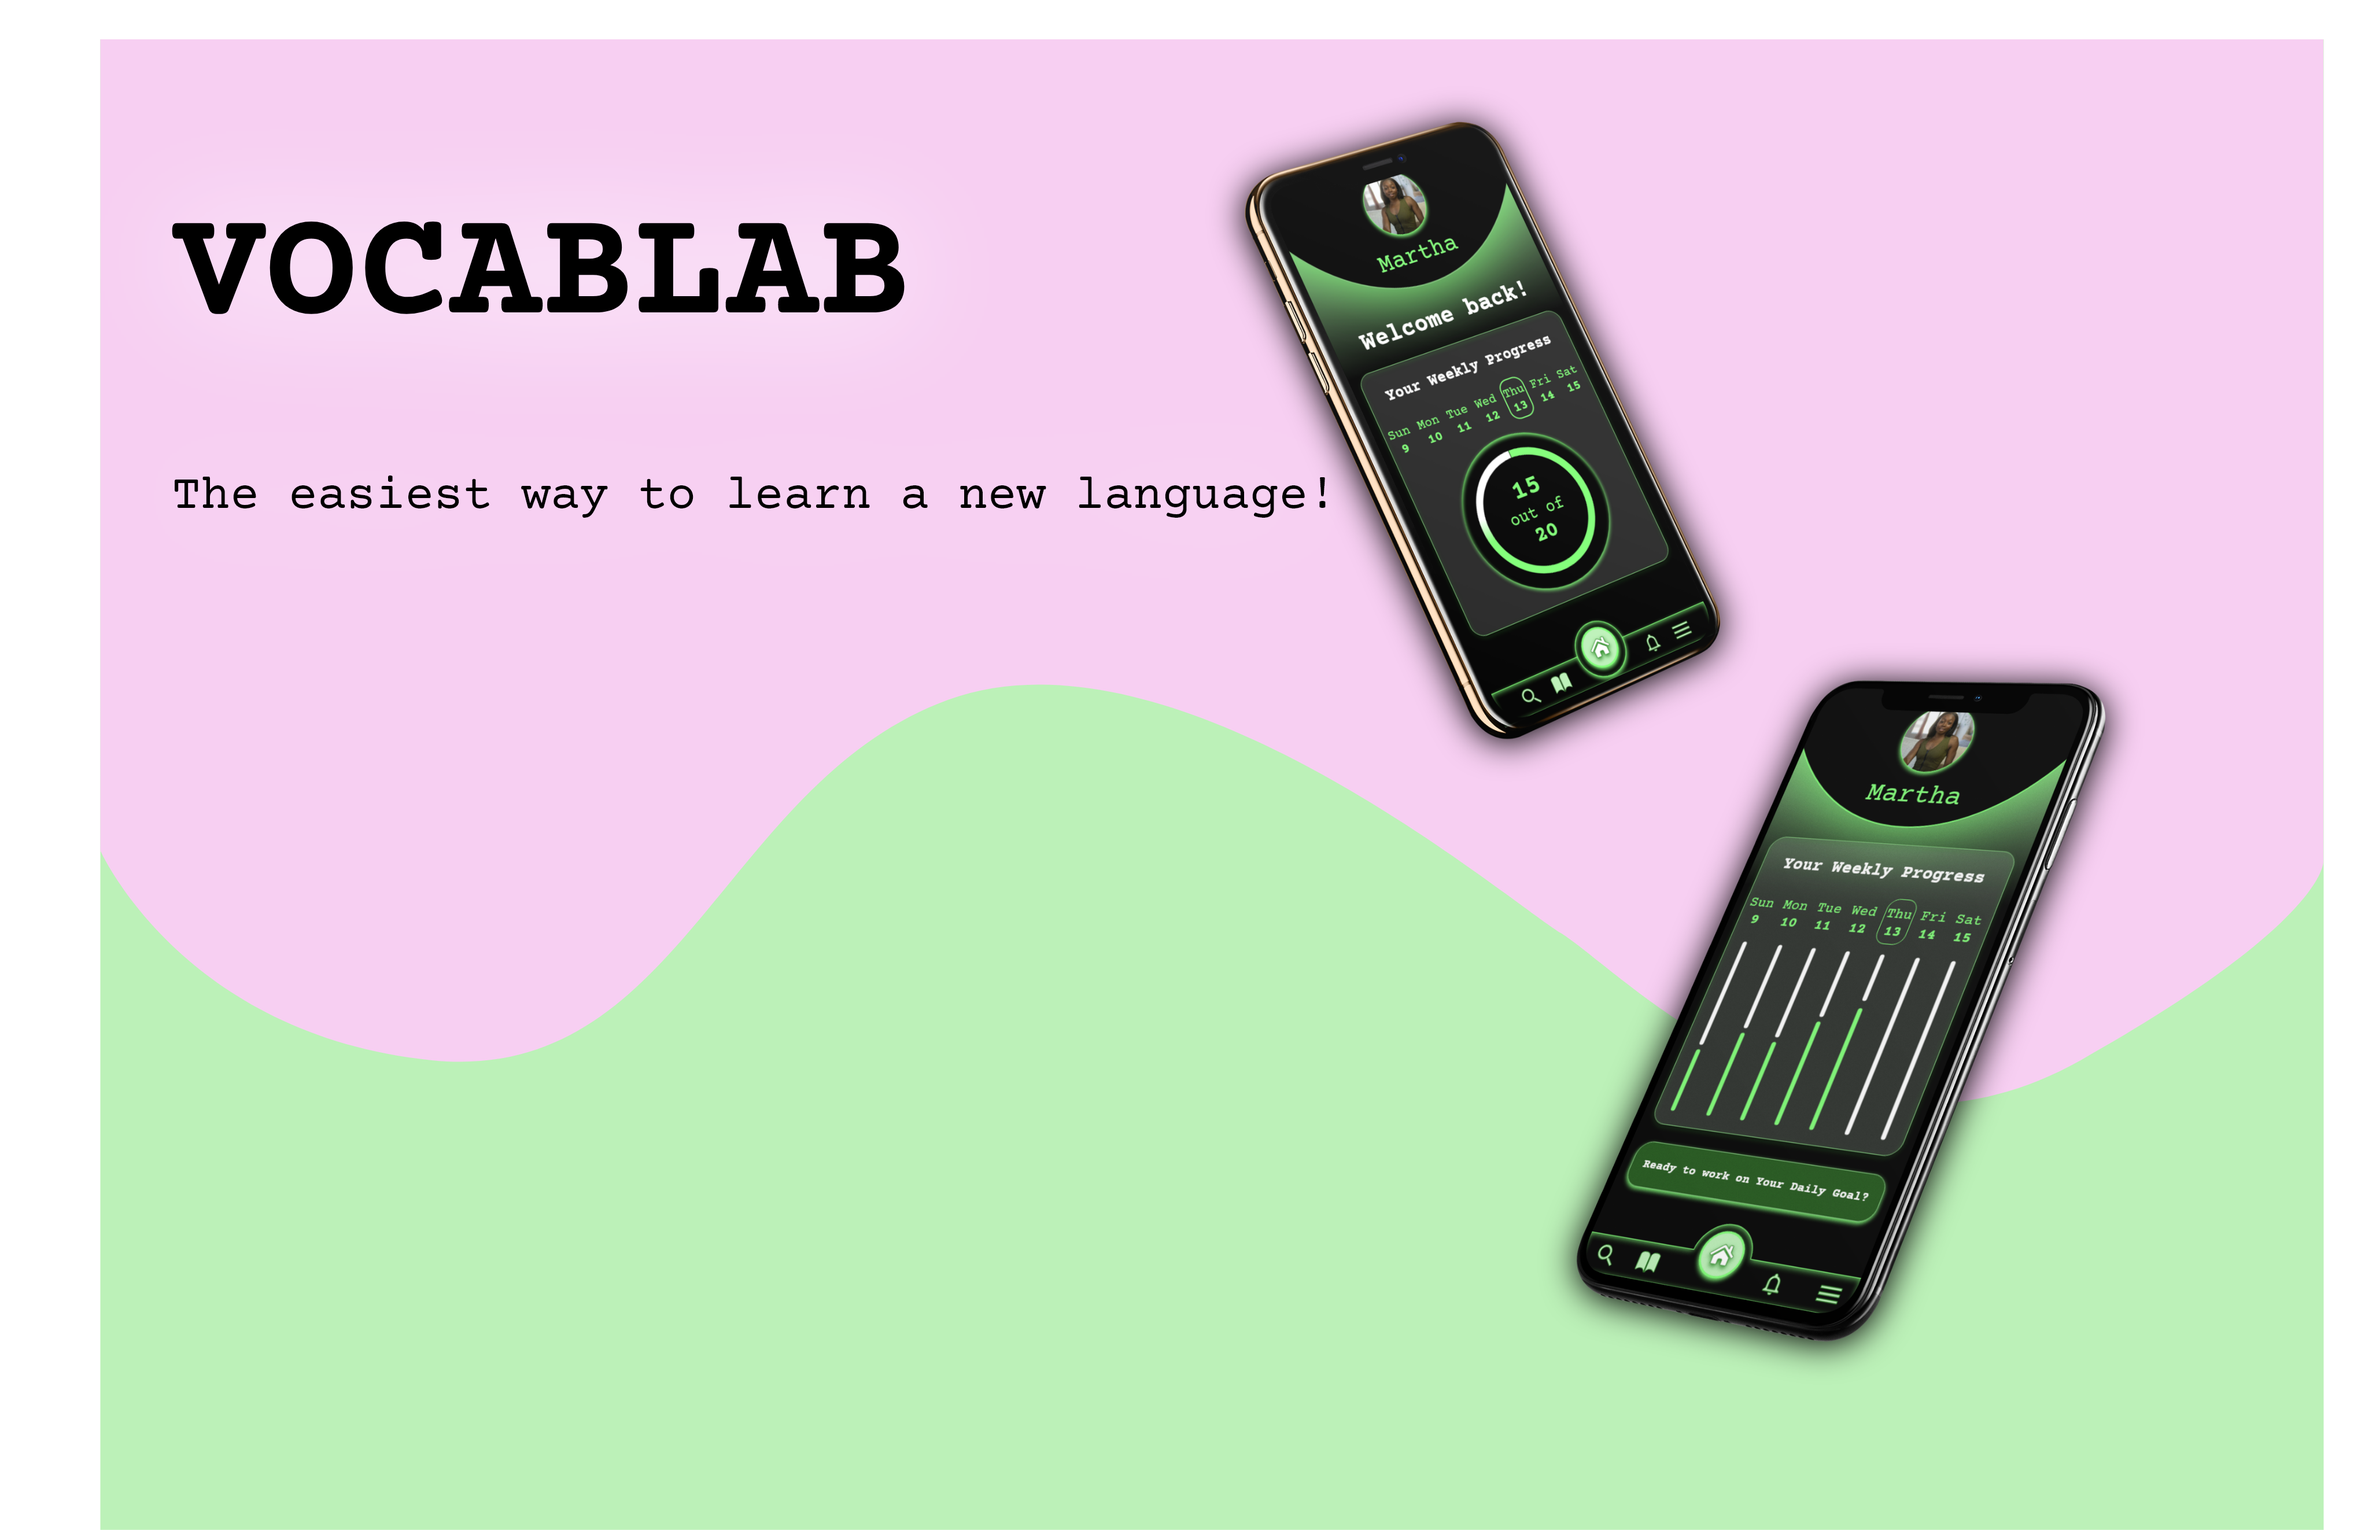
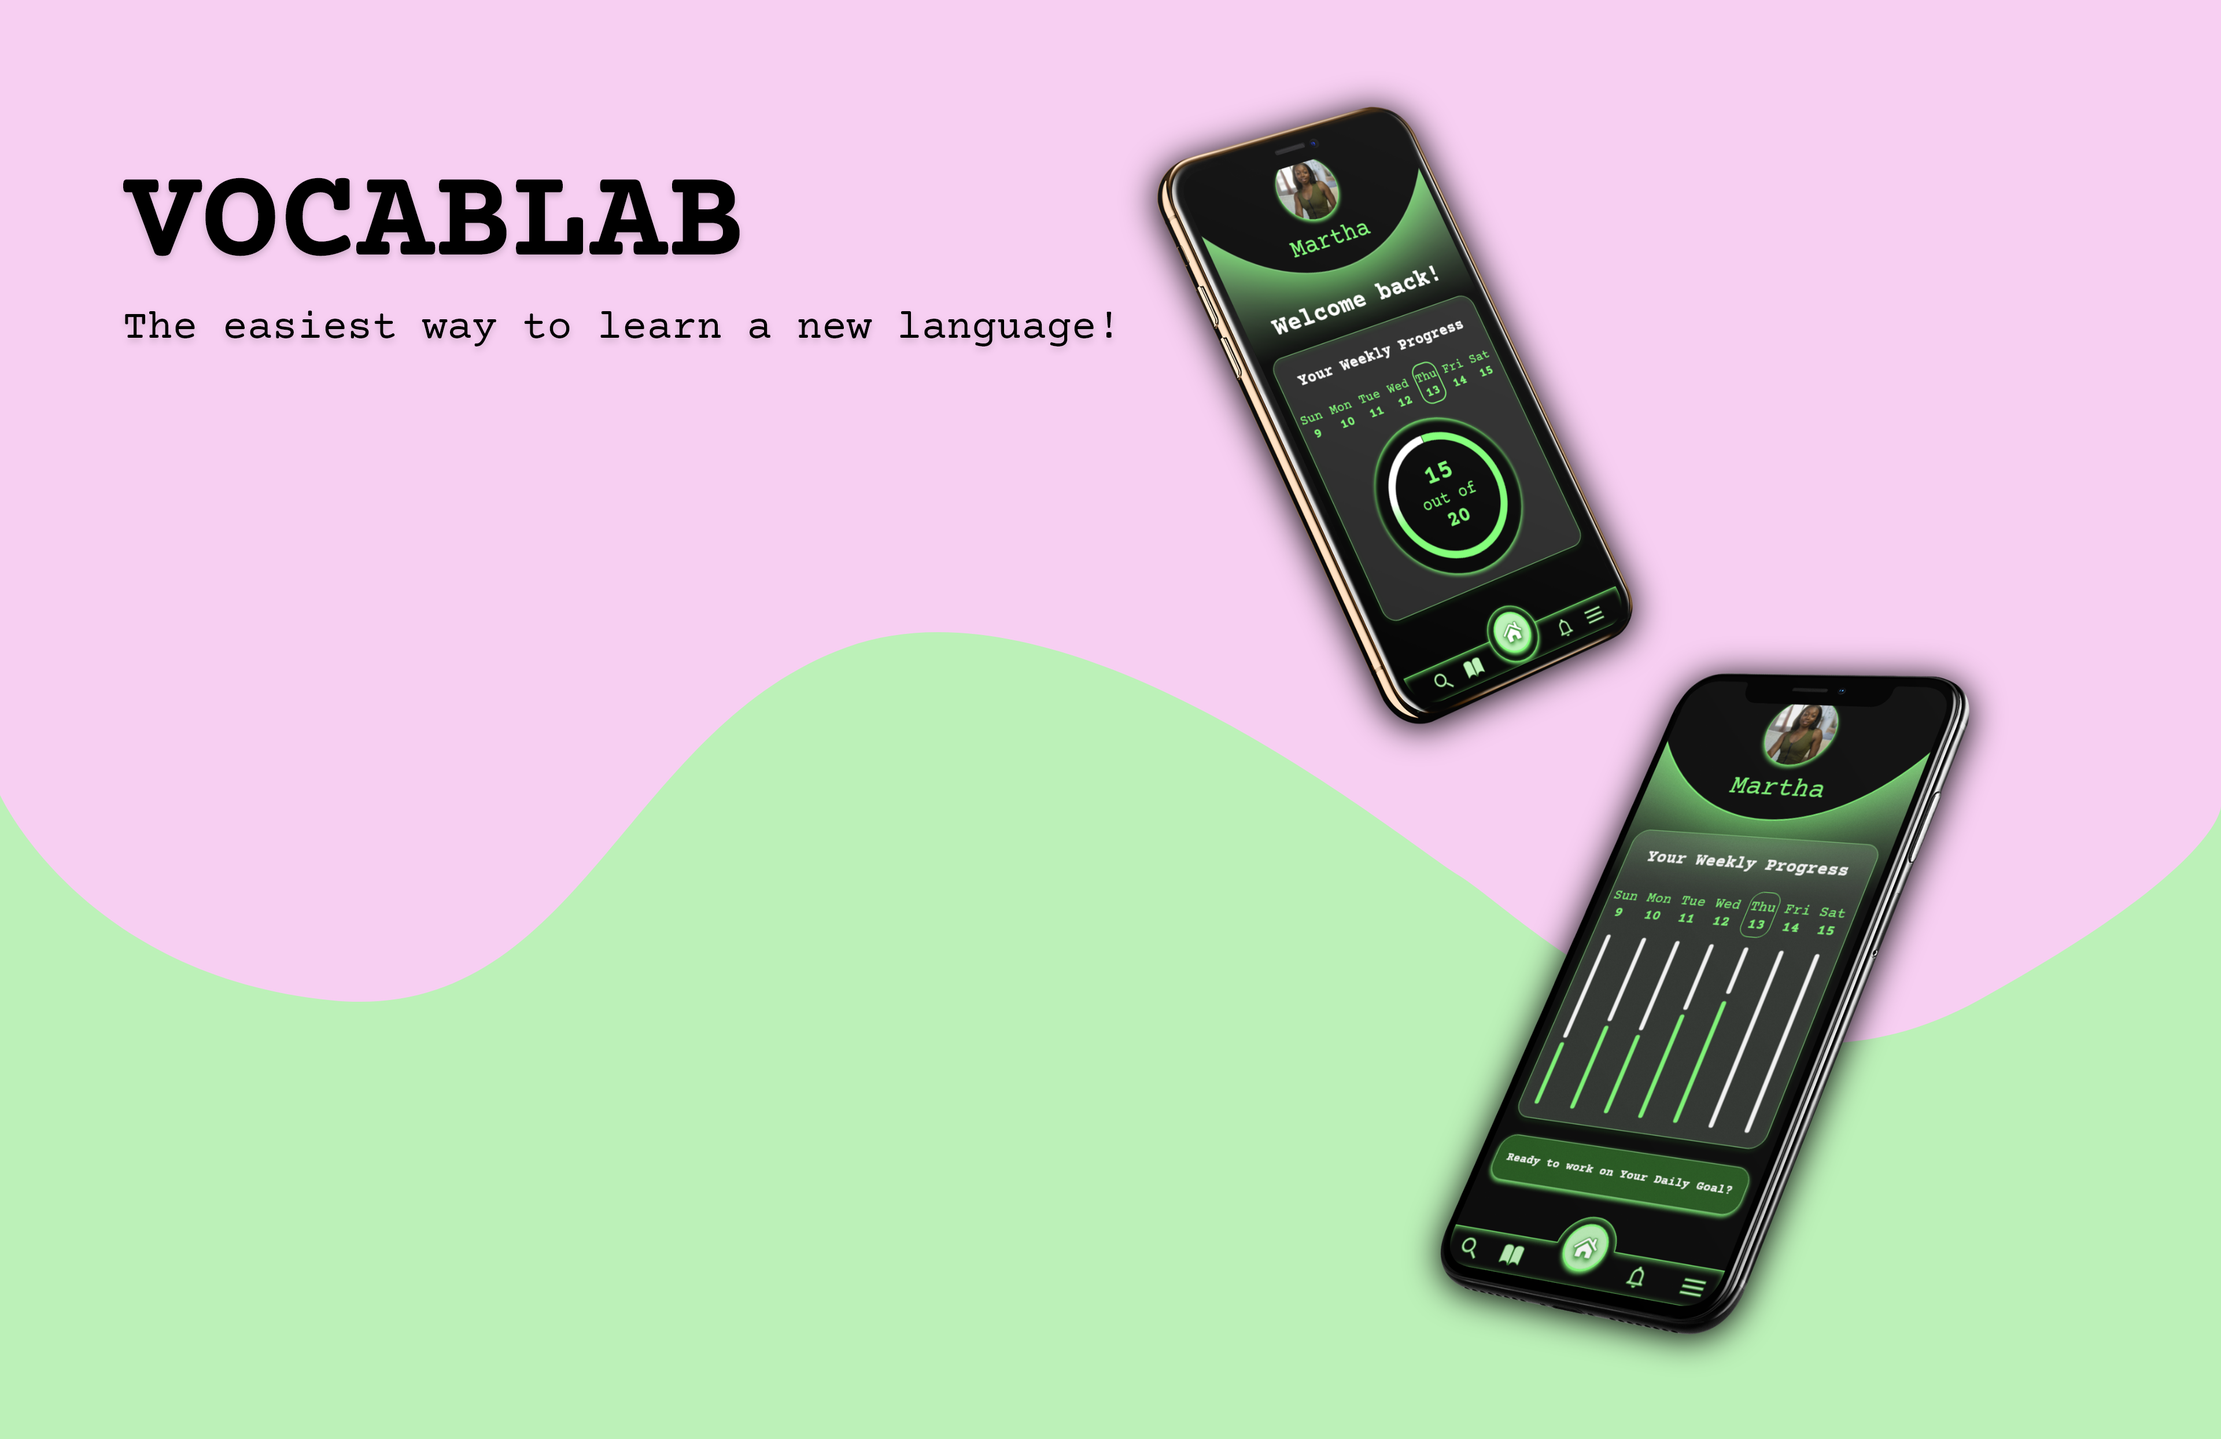
new changes

Changed region(s): [[0.0, 0.0, 1.0, 1.0], [0.2188, 0.4642, 0.375, 0.6809], [0.375, 0.4333, 0.4688, 0.4642]]

diff --git a/portfolio.html b/portfolio.html
@@ -71,8 +71,8 @@
           <div class="row vertical-center">
             <div class="column col-md-6 col-lg-7 center">
               <picture>
-                <source class="one" srcset="img/getinked/vocablabnew.png" media="(max-width:767px)">
-                <img class="one" src="img/getinked/vocablabnew.png" alt="VocabLab App Mockup">
+                <source class="one" srcset="img/getinked/vocablabnew2x.png" media="(max-width:767px)">
+                <img class="one" src="img/getinked/vocablabnew2x.png" alt="VocabLab App Mockup">
               </picture>
             </div>
             <div class="column col-md-6 col-lg-5 center">
